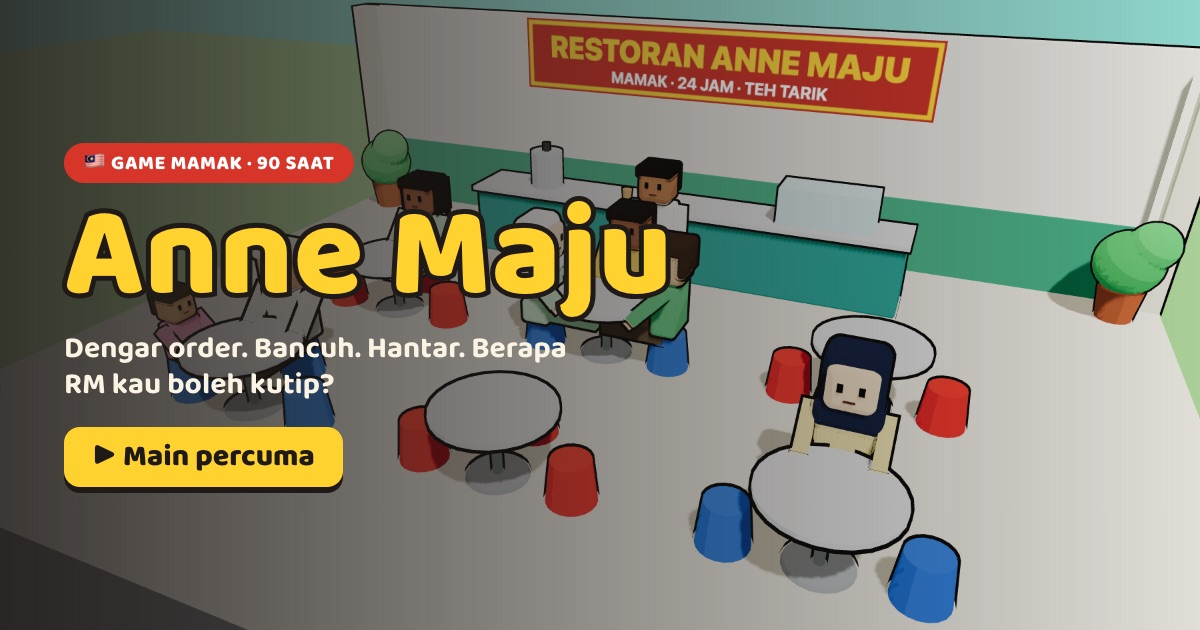
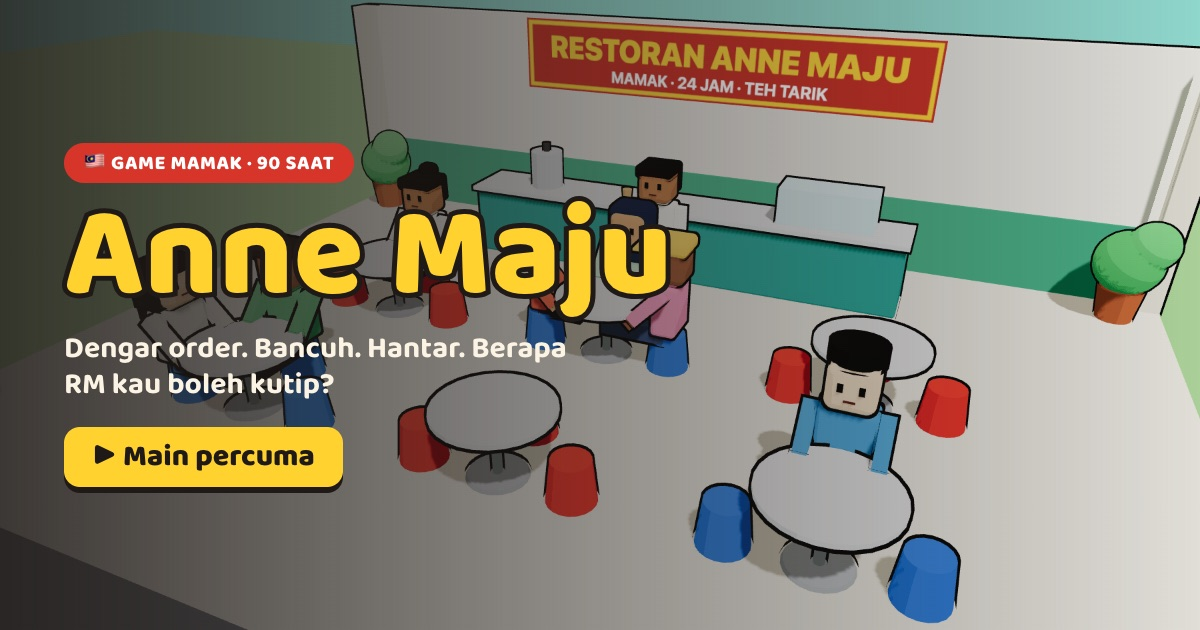
Hide upcoming games from the start screen and share image
Remove the game chips from the city start screen, drop the "Cari
Parking" coming-soon label from the mall (now a plain building) and the
"Akan datang" chip from the city OG image.

diff --git a/src/hub/hub.tsx b/src/hub/hub.tsx
@@ -197,8 +197,6 @@ export function Hub() {
 
 // Title screen over the live city: logo, what's inside, and one big button to start walking
 function StartScreen({ tr, touch, onStart }: { tr: (typeof HUB_STRINGS)["ms"]; touch: boolean; onStart: () => void }) {
-  const live = BUILDINGS.filter((b) => b.game);
-  const soon = BUILDINGS.filter((b) => b.soon);
   return (
     <div
       className="absolute inset-0 z-10 flex cursor-pointer flex-col items-center justify-center gap-4 overflow-y-auto bg-gradient-to-b from-ink/70 via-ink/45 to-ink/80 px-6 py-8 text-center text-cream"
@@ -209,18 +207,6 @@ function StartScreen({ tr, touch, onStart }: { tr: (typeof HUB_STRINGS)["ms"]; t
         ▶ PLAY
       </h1>
       <p className="max-w-md text-base font-bold text-cream/90 sm:text-lg">{tr.tagline}</p>
-      <div className="flex flex-wrap justify-center gap-2 text-sm font-extrabold">
-        {live.map((b) => (
-          <span key={b.id} className="rounded-xl bg-amber-300 px-3 py-1.5 text-ink shadow-[0_3px_0_#1f1a17]">
-            {b.game!.emoji} {b.game!.title} · {tr.playNow}
-          </span>
-        ))}
-        {soon.map((b) => (
-          <span key={b.id} className="rounded-xl bg-cream/15 px-3 py-1.5 backdrop-blur">
-            {b.soon!.emoji} {b.soon!.title} · {tr.soon}
-          </span>
-        ))}
-      </div>
       <button
         type="button"
         onClick={(e) => {

diff --git a/src/hub/world-data.ts b/src/hub/world-data.ts
@@ -30,7 +30,7 @@ export const BUILDINGS: Building[] = [
   { id: "anne-maju", kind: "mamak", sign: "RESTORAN ANNE MAJU", x: 15, side: "north", w: 10, d: 8, h: 5, color: "#f4efe4", game: { slug: "anne-maju", title: "Anne Maju", emoji: "🍵" } },
   { id: "runcit", kind: "shophouse", sign: "KEDAI RUNCIT AH SENG", x: 26.5, side: "north", w: 8, d: 8, h: 6.5, color: "#f2c46b" },
   { id: "klinik", kind: "shophouse", sign: "KLINIK 24 JAM", x: 35, side: "north", w: 7, d: 8, h: 6, color: "#bfe1f2" },
-  { id: "parking", kind: "mall", sign: "MEGA MALL", x: -20, side: "north", w: 18, d: 12, h: 9, color: "#d9d4f0", soon: { title: "Cari Parking", emoji: "🚗" } },
+  { id: "parking", kind: "mall", sign: "MEGA MALL", x: -20, side: "north", w: 18, d: 12, h: 9, color: "#d9d4f0" },
   { id: "kopitiam", kind: "shophouse", sign: "KOPITIAM", x: -34, side: "north", w: 7, d: 8, h: 6, color: "#f5b7a3" },
   { id: "lrt", kind: "lrt", sign: "STESEN LRT", x: -19, side: "south", w: 16, d: 9, h: 4.6, color: "#e6e9ec", soon: { title: "Stesen LRT", emoji: "🚇" } },
   { id: "gunting", kind: "shophouse", sign: "KEDAI GUNTING", x: -34, side: "south", w: 7, d: 8, h: 6, color: "#a8d8b0" },

diff --git a/src/hub/strings.ts b/src/hub/strings.ts
@@ -14,8 +14,6 @@ const ms = {
   tagline: "Jalan-jalan dalam bandar, masuk kedai, terus main. Percuma, tak perlu install.",
   startCta: "▶ Mula jalan",
   startKey: "atau tekan Enter",
-  inCity: "Dalam bandar",
-  playNow: "Main sekarang",
   controlsDesktop: "🎮 WASD / anak panah · klik untuk jalan · Enter untuk masuk",
   controlsTouch: "🎮 Joystick atau tap untuk jalan",
 };
@@ -36,8 +34,6 @@ const en: Strings = {
   tagline: "Walk the city, step into a shop, start playing. Free, nothing to install.",
   startCta: "▶ Start exploring",
   startKey: "or press Enter",
-  inCity: "In the city",
-  playNow: "Play now",
   controlsDesktop: "🎮 WASD / arrows · click to walk · Enter to go in",
   controlsTouch: "🎮 Joystick or tap to walk",
 };

diff --git a/src/hub/poster.tsx b/src/hub/poster.tsx
@@ -19,7 +19,6 @@ export function HubPoster() {
         <p className="max-w-lg text-3xl font-bold text-cream">Jalan-jalan, masuk kedai, terus main. Percuma dalam browser.</p>
         <div className="mt-1 flex gap-3">
           <span className="rounded-2xl bg-amber-300 px-5 py-2.5 text-2xl font-extrabold text-ink shadow-[0_6px_0_#1f1a17]">🍵 Anne Maju</span>
-          <span className="rounded-2xl bg-cream/90 px-5 py-2.5 text-2xl font-extrabold text-ink/70 shadow-[0_6px_0_#1f1a17]">🚇 Akan datang</span>
         </div>
       </div>
     </div>
